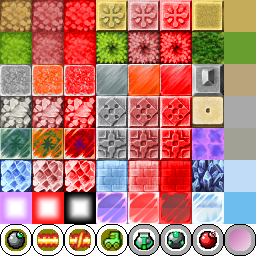
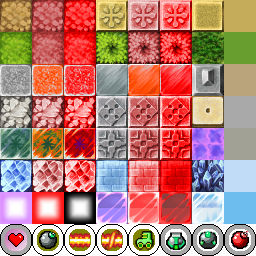
Fix interaction with bomb type changes; reset bomb type on respawn

diff --git a/core/src/com/radius/system/objects/players/Player.java b/core/src/com/radius/system/objects/players/Player.java
@@ -150,7 +150,7 @@ public class Player extends Entity implements FirePathListener {
 
     private final float baseSpeedIncrease = 0.5f, baseSpeed = 1.5f;
 
-    private BombType bombType = BombType.NORMAL;
+    private BombType bombType = null;
 
     public final int id;
 
@@ -216,7 +216,6 @@ public class Player extends Entity implements FirePathListener {
         FireStatChange(BonusType.BOMB_STOCK, bombStock);
         FireStatChange(BonusType.FIRE_POWER, firePower);
         FireStatChange(BonusType.MOVEMENT_SPEED, speedLevel);
-        FireBombChangeEvent();
 
         Respawn(GetWorldPosition(respawnPoint.x, size.x), GetWorldPosition(respawnPoint.y, size.y));
 
@@ -329,6 +328,8 @@ public class Player extends Entity implements FirePathListener {
         invulnerableTime = 0f;
         invulnerable = true;
         life--;
+
+        ChangeBombType(BombType.NORMAL);
         FireStatChange(BonusType.LIFE, life);
     }
 
@@ -502,11 +503,25 @@ public class Player extends Entity implements FirePathListener {
             return;
         }
 
-        if (this.bombType == bombType) {
+        if (this.bombType == bombType && !BombType.NORMAL.equals(bombType)) {
             IncreaseBombStock();
+            return;
         }
+
         this.bombType = bombType;
-        FireBombChangeEvent();
+        BonusType bonusType = BonusType.EMPTY;
+        switch (bombType) {
+            case PIERCE:
+                bonusType = BonusType.PIERCE_BOMB;
+                break;
+            case IMPACT:
+                bonusType = BonusType.IMPACT_BOMB;
+                break;
+            case REMOTE:
+                bonusType = BonusType.REMOTE_MINE;
+                break;
+        }
+        FireStatChange(bonusType, bombType.GetType());
     }
 
     public BombType GetBombType() {
@@ -741,12 +756,6 @@ public class Player extends Entity implements FirePathListener {
         statChangeEvent.value = value;
         for (StatChangeListener listener : statChangeListeners) {
             listener.OnStatChange(statChangeEvent);
-        }
-    }
-
-    private void FireBombChangeEvent() {
-        for (BombTypeChangeListener listener : bombTypeChangeListeners) {
-            listener.OnBombTypeChange(bombType);
         }
     }
 

diff --git a/core/src/com/radius/system/enums/BonusType.java b/core/src/com/radius/system/enums/BonusType.java
@@ -2,21 +2,21 @@ package com.radius.system.enums;
 
 public enum BonusType {
 
-    BOMB_STOCK(0),
+    LIFE(0),
 
-    FIRE_POWER(1),
+    BOMB_STOCK(1),
 
-    FLASH_FIRE(2),
+    FIRE_POWER(2),
 
-    MOVEMENT_SPEED(3),
+    FLASH_FIRE(3),
 
-    REMOTE_MINE(4),
+    MOVEMENT_SPEED(4),
 
-    PIERCE_BOMB(5),
+    REMOTE_MINE(5),
 
-    IMPACT_BOMB(6),
+    PIERCE_BOMB(6),
 
-    LIFE(7),
+    IMPACT_BOMB(7),
 
     EMPTY(-1);
 

diff --git a/core/src/com/radius/system/screens/ui/hud/BombDisplayIcon.java b/core/src/com/radius/system/screens/ui/hud/BombDisplayIcon.java
@@ -20,7 +20,7 @@ public class BombDisplayIcon extends HeadsUpDisplayIcon {
 
     @Override
     public void OnStatChange(StatChangeEvent event) {
-        if (event.bonusType.GetType() <= BonusType.MOVEMENT_SPEED.GetType()) {
+        if (event.bonusType.GetType() >= 0 && event.bonusType.GetType() <= BonusType.MOVEMENT_SPEED.GetType()) {
             return;
         }
 
